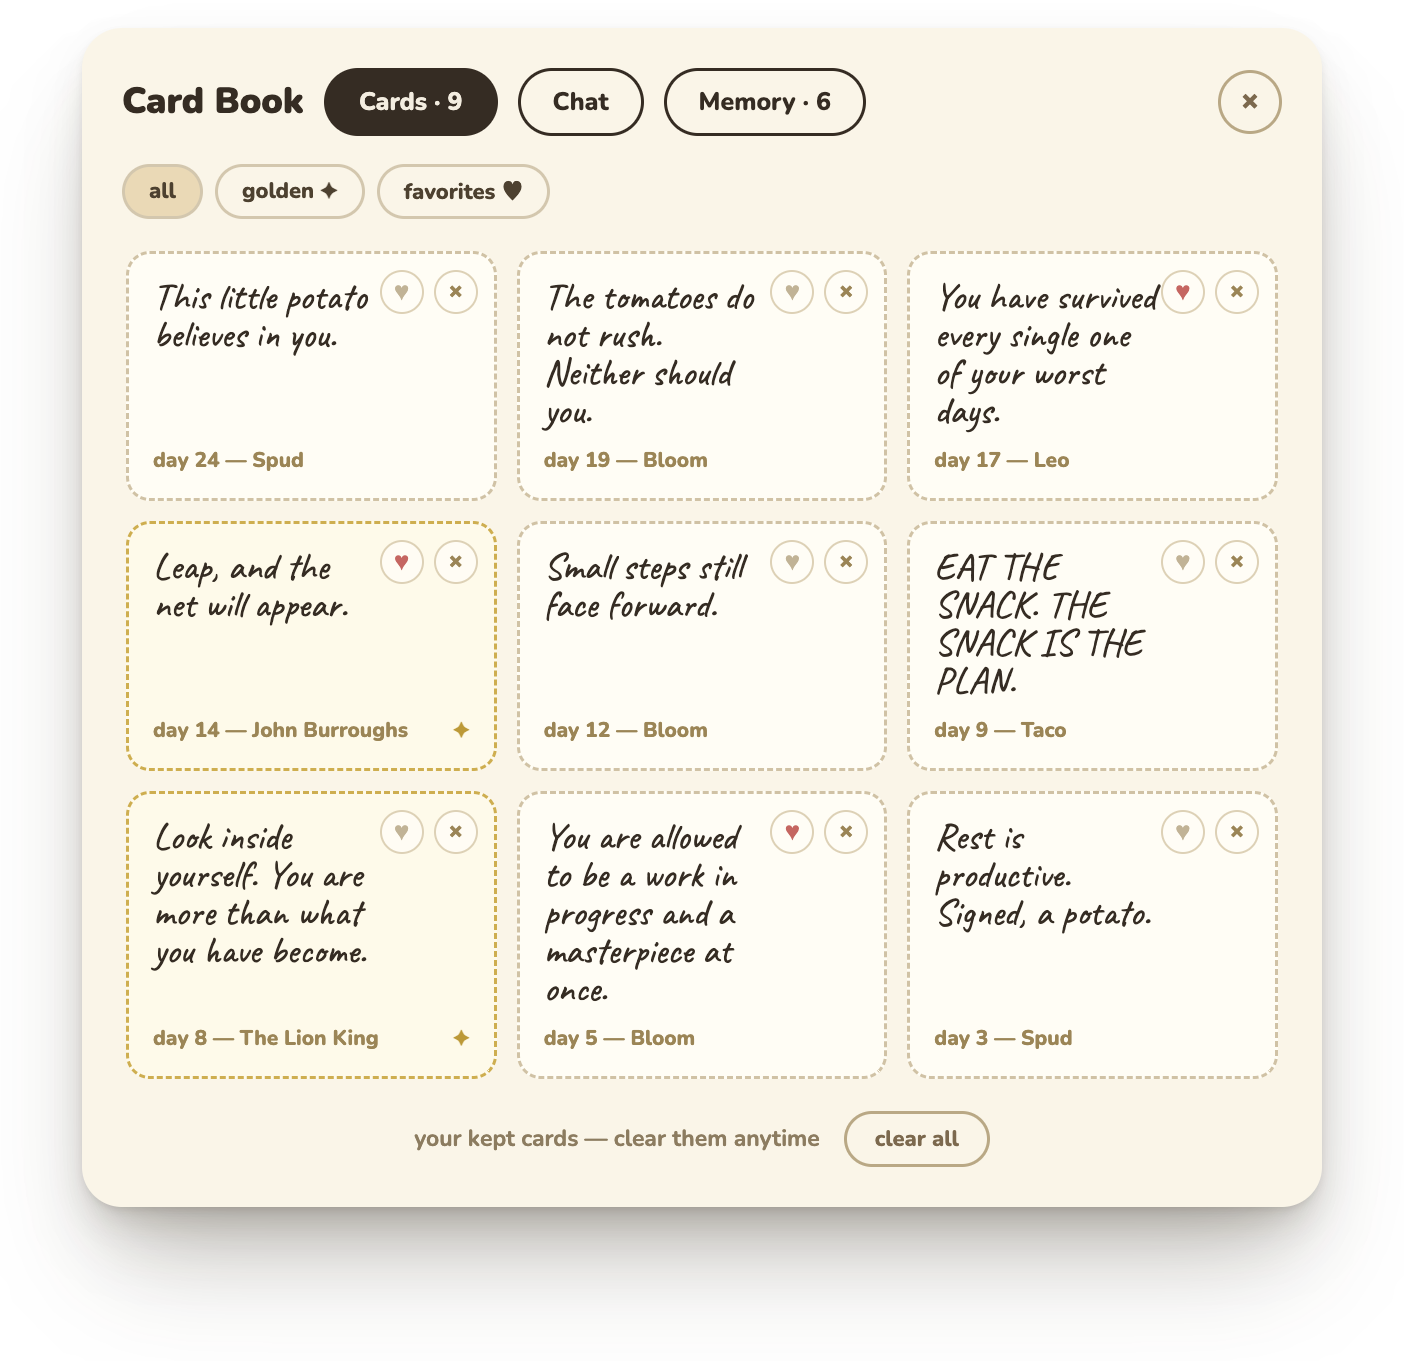
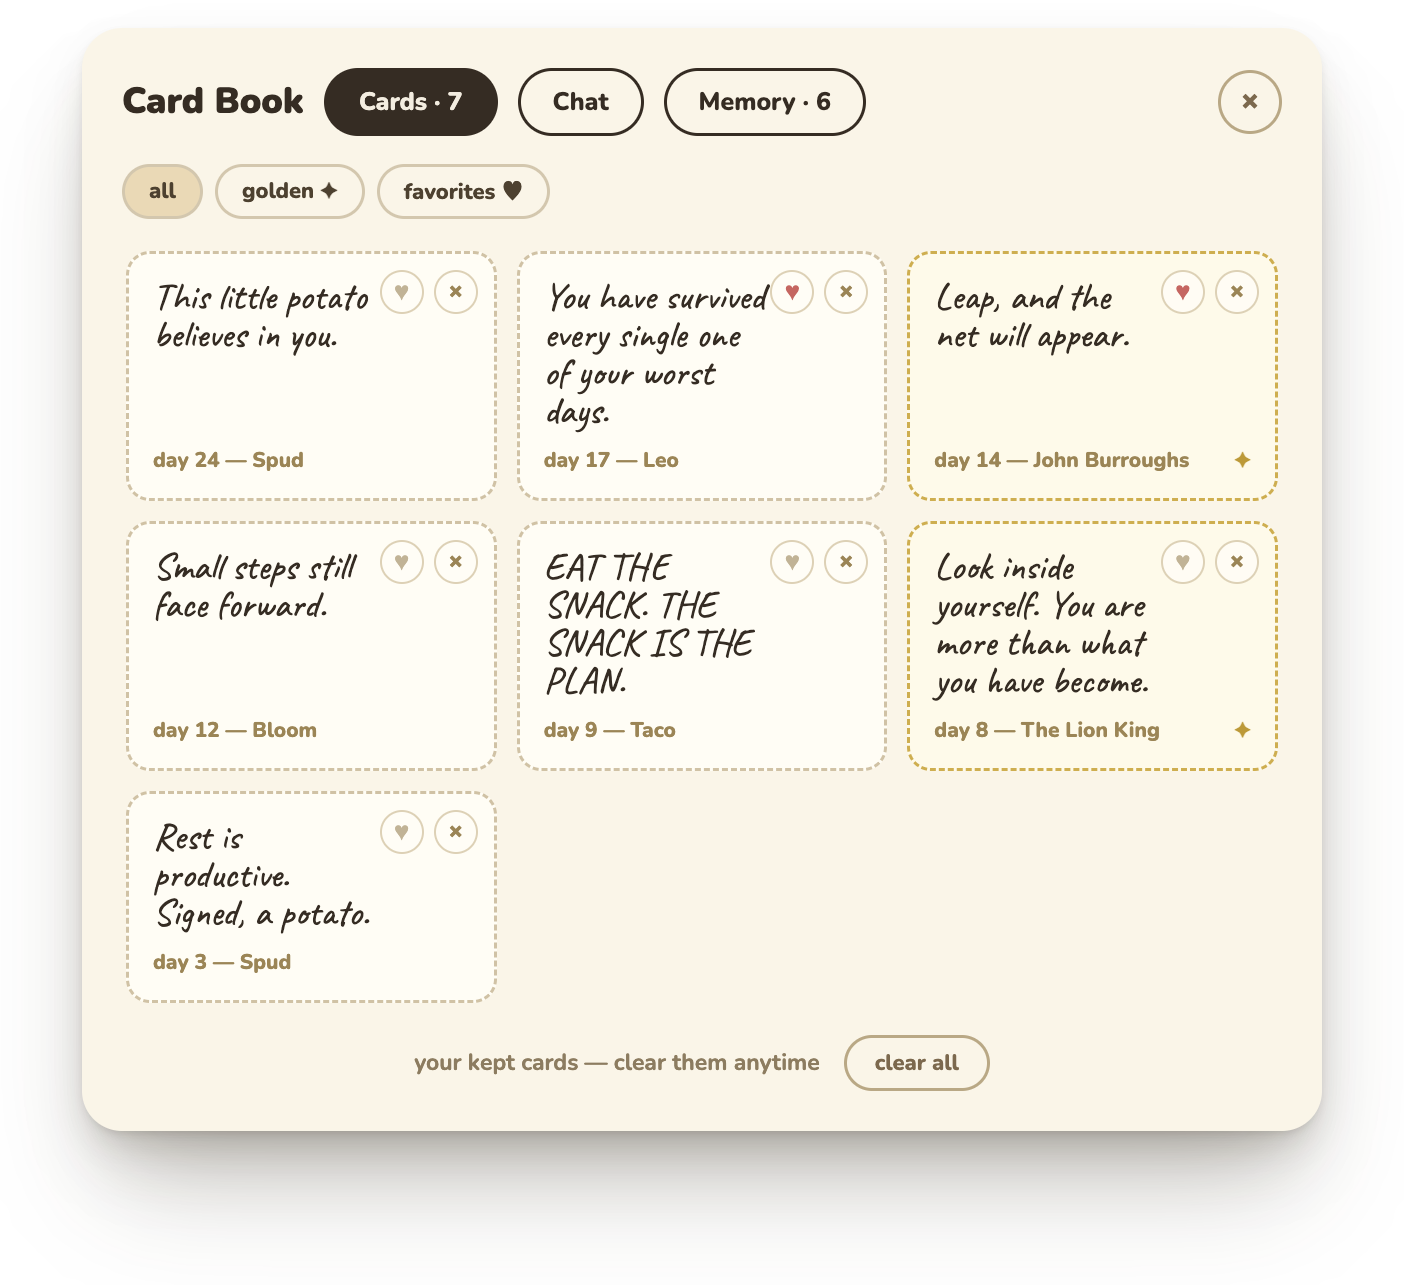
Match the three panel shots and let the Card Book breathe
Card Book, Memory and Buddies are all the same #book panel (620px wide) and all
three shots are 1404px, so they were only ever different sizes because the
README asked for different sizes — buddies at 700 against 560 for the other
two. All three now render at an identical 540.9px, the way they do in the app.

Nine kept cards filled the 3-wide grid exactly, which made the panel read as a
packed catalogue. Seven runs 3 · 3 · 1, and the short last row gives it some
air. Both goldens and both favorites survive the cut — the shot still has to
show what the ✦ and the ♥ look like.

diff --git a/app/src/shot-studio.ts b/app/src/shot-studio.ts
@@ -49,18 +49,18 @@ const $ = (id: string) => document.getElementById(id)!;
 const HERO_CARD = "You don't have to be perfect to be wonderful";
 const HERO_MUTTER = 'the lamp hums. i don’t mind it.';
 
-// Nine cards — the book's grid is 3-wide, so nine fills exactly three rows with
-// no orphan. A gold one and the favorited ones are in on purpose: the shot has
-// to show what the ✦ and the ♥ look like.
+// Seven cards. The grid is 3-wide, so seven runs 3 · 3 · 1 and the short last
+// row keeps the panel from reading as a packed catalogue — a full nine looked
+// airless. Two goldens and two favorites stay in regardless: the shot has to
+// show what the ✦ and the ♥ actually look like, and a golden signed by its
+// source is the common case the Golden Stitch section describes.
 const DEMO_CARDS: AppState['cards'] = [
   { m: 'Rest is productive. Signed, a potato.', rare: false, day: 3, by: 'Spud' },
-  { m: 'You are allowed to be a work in progress and a masterpiece at once.', rare: false, day: 5, by: 'Bloom', fav: true },
   { m: 'Look inside yourself. You are more than what you have become.', rare: true, day: 8, by: 'Sprinkles', src: 'The Lion King' },
   { m: 'EAT THE SNACK. THE SNACK IS THE PLAN.', rare: false, day: 9, by: 'Taco' },
   { m: 'Small steps still face forward.', rare: false, day: 12, by: 'Bloom' },
   { m: 'Leap, and the net will appear.', rare: true, day: 14, by: 'Spud', src: 'John Burroughs', fav: true },
   { m: 'You have survived every single one of your worst days.', rare: false, day: 17, by: 'Leo', fav: true },
-  { m: 'The tomatoes do not rush. Neither should you.', rare: false, day: 19, by: 'Bloom' },
   { m: 'This little potato believes in you.', rare: false, day: 24, by: 'Spud' },
 ];
 

diff --git a/README.md b/README.md
@@ -42,7 +42,7 @@ Tap the little white card in his hands and he hands you today's line — somethi
 - Works fully offline: a hand-written pool ships in the app, so he's never speechless.
 
 <div align="center">
-  <img src="docs/media/cardbook.png" width="560" alt="The Card Book, Cards tab: nine kept cards in a grid, the golden ones dashed in gold and marked with a ✦, favorites marked with a filled heart, and filter chips for all / golden / favorites" />
+  <img src="docs/media/cardbook.png" width="560" alt="The Card Book, Cards tab: seven kept cards in a grid, the golden ones dashed in gold and marked with a ✦, favorites marked with a filled heart, and filter chips for all / golden / favorites" />
 </div>
 
 Everything you keep lands in the **Card Book** — filter it down to just the goldens, or just the ones you loved.
@@ -84,7 +84,7 @@ What he learns about you gets distilled into the **Memory quilt** — one patch 
 ## 🧵 Meet the crew
 
 <div align="center">
-  <img src="docs/media/buddies.png" width="700" alt="The Buddies collection: Spud, Taco, Sprinkles, Bloom, Leo, Prof — 6 of 6 friends" />
+  <img src="docs/media/buddies.png" width="560" alt="The Buddies collection: Spud, Taco, Sprinkles, Bloom, Leo, Prof — 6 of 6 friends" />
 </div>
 
 Six little souls, each a different kind of comfort. Spud comes with the app; the other five you don't buy — you **earn** them, through five different kinds of care: keep · favorite · confide · show up · go gold. Once a friend, always a friend; tap **Set active** to put anyone on duty.
